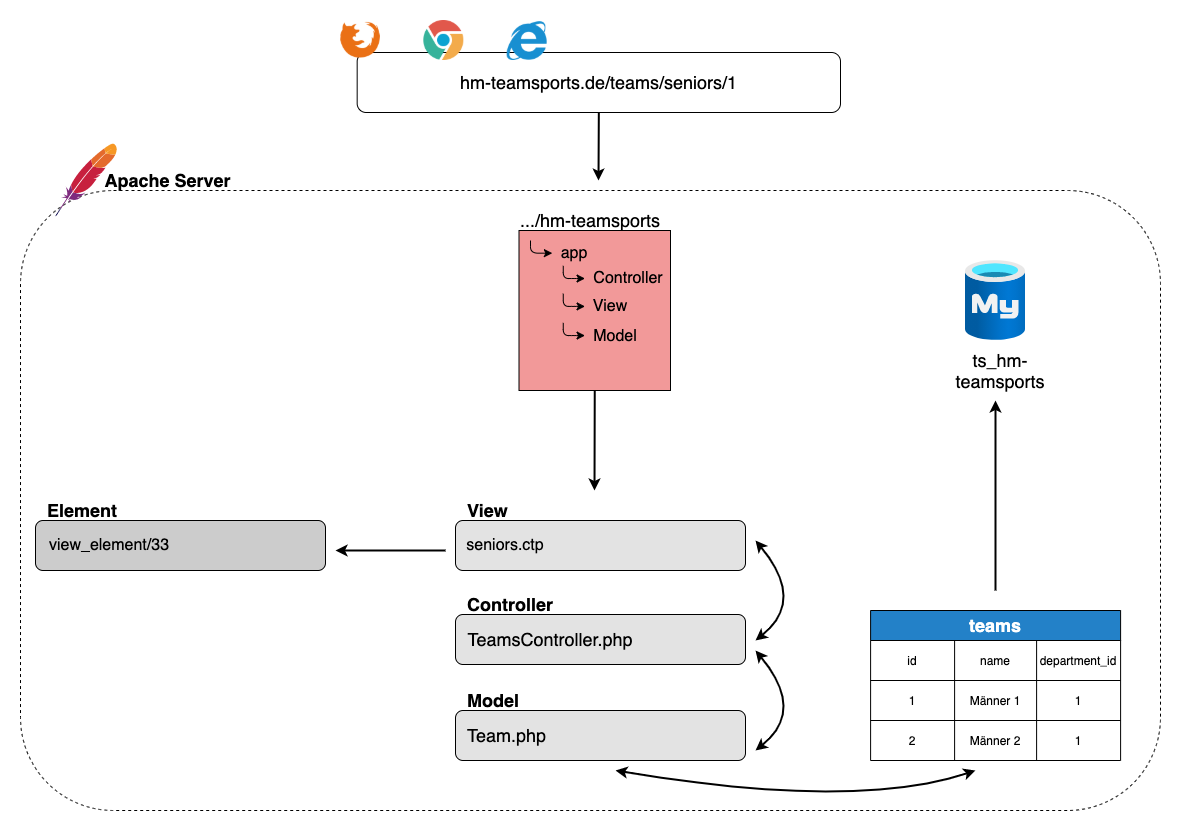
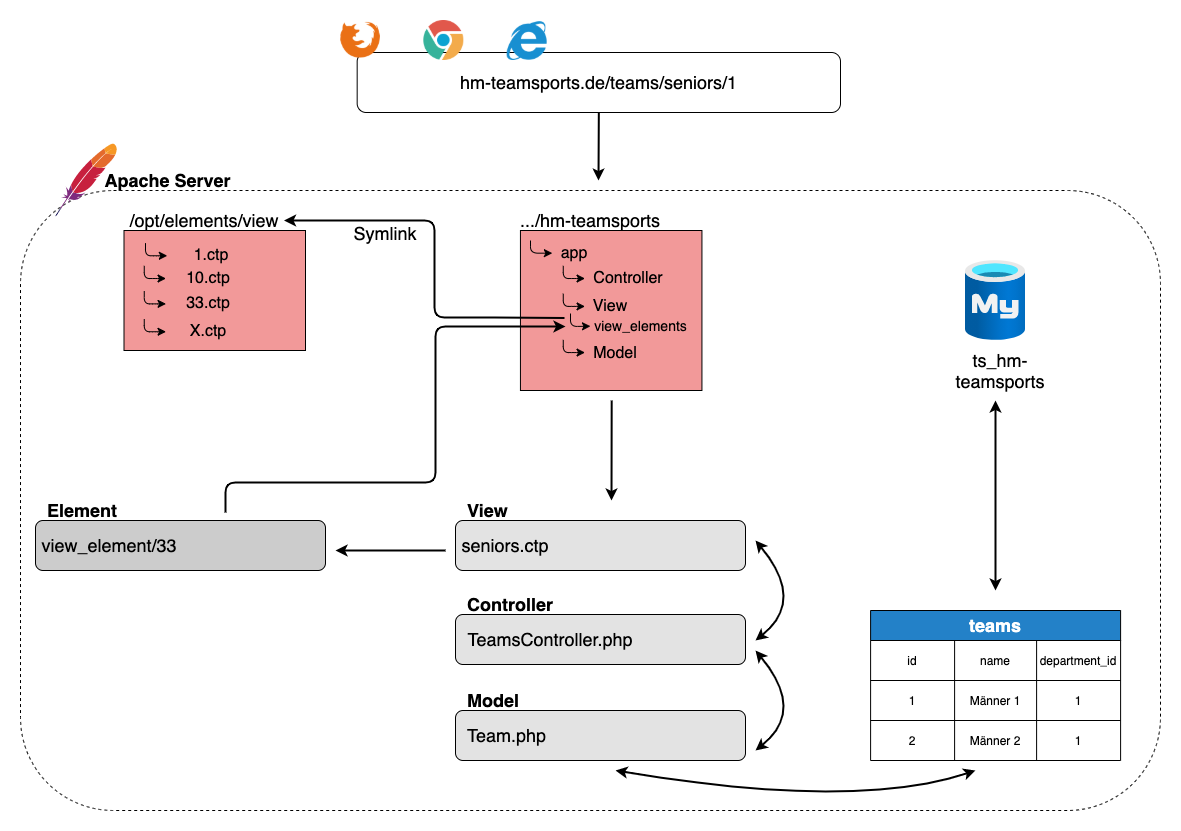
added content for ts2 architecture

diff --git a/source/08_analyse_istZustand_ts.md b/source/08_analyse_istZustand_ts.md
@@ -63,7 +63,7 @@ Abbildung 7: Model-View-Controller Architektur bei TeamSports2
 
 Alle TeamSports2 Instanzen laufen auf einem Apache Server unter Ubuntu als Betriebssystem. Sendet ein Nutzer eine Anfrage an die Seite hm-teamsports.de, so wird auf das zur Domain zugehörige Verzeichnis auf dem Server zugegriffen. Für den Aufbau der URLs nutzt CakePHP das „[...] Representational State Transfer Schema, kurz REST, das für den Aufbau verteilter Informationssysteme definiert wurde“ [@Ammelburger2008 46]. „Das URL-Schema ist dabei normalerweise so aufgebaut: _http://domain/controller/action/parameter1/parameter2_“ [@Ammelburger2008 45].
 
-Im Beispiel wird der TeamsController angesprochen, welcher die Action „Seniors“ enthält. Die Action ist in diesem Fall eine Funktion, welche im TeamsController implementiert ist.
+Im Beispiel wird der TeamsController angesprochen, welcher die Action „Seniors“ enthält.
 
 ```
 function seniors($departmentId = null)
@@ -76,8 +76,16 @@ function seniors($departmentId = null)
 	}
 ```
 
-Der übergebene Parameter eins in der URL steht für die departmentId, welche der Action übergeben werden muss. Als Department wird in TeamSports2 eine Abteilung des Vereins bezeichnet. Dadurch, dass die View seniors.ctp genau so wie die Action im TeamsController benannt ist, kann die View diese zuordnen. Dass die View seniors.ctp auf den TeamsController zugreifen muss, ist durch die Verzeichnisstruktur im Projekt festgelegt. Alle Views die im View-Ordner wiederum im Teams-Ordner liegen, wissen dass sie mit dem TeamsController verbunden sind. In diesem Fall enthält die seniors View ein Element mit der Nummer 33. Prinzipiell kann in der View auch PHP und HTML Code stehen. An dieser Stelle wurde ein Element verwendet, dass der Nutzer auch selbständig über den Administrationsbereich abändern kann. 
-Der TeamsController steht, ebenfalls durch die Namenskonvention, in Beziehung mit dem Team Model. CakePHP erkannt auch an dieser Stelle, dass in der Datenbank eine Tabelle namens teams besteht und verküpft das Model mit der Tabelle. Im Model werden dann unter anderem die relationalen Beziehungen der jeweiligen Tabelle definiert.
+Der übergebene Parameter eins in der URL steht für die departmentId, welche der Action übergeben werden muss. Als Department wird in TeamSports2 eine Abteilung des Vereins bezeichnet. Dadurch, dass die View seniors.ctp  wie die Action im TeamsController benannt ist, kann die View diese zuordnen. Dass die View seniors.ctp auf den TeamsController zugreifen muss, ist durch die Verzeichnisstruktur im Projekt festgelegt. Alle Views die im View-Ordner und dort wiederum im Teams-Ordner liegen, wissen dass sie mit dem TeamsController verbunden sind. In diesem Fall enthält die seniors View ein Element mit der Nummer 33. Prinzipiell kann in der View auch PHP und HTML Code stehen. An dieser Stelle wurde ein Element verwendet, dass der Nutzer auch selbständig über den Administrationsbereich abändern kann. Grundsätzlich enthält jede Instanz Elemente, die zu Darstellungen in den Views dienen. Damit diese nicht bei jeder Instanz einzeln abgelegt werden müssen, enthält jede Instanz im View Ordner den Ordner view_elements. Dieser ist ein Symlink zum Pfad */opt/elements/view* auf demselben Server. Unter diesem Pfad findet sich dann auch das passende Element. In der View seniors.ctp wird das Element 33 mit folgendem Code aufgerufen.
+
+```
+<?php
+echo $this->element('view_elements/33');
+?>
+```
+
+CakePHP erkennt mithilfe von *$this->element*, dass auf den View Ordner, worin der Elements Ordner liegt zugegriffen werden muss. Die gleiche Ordnerstruktur ist im Controller Ordner auch auf dem Server vorzufinden mit der Ergänzung des view_elements Ordners. Somit wird im Ordner View der Unterordner Elements gesucht. In letzerem ist dann der view_elements Symlink enthalten welcher das Element 33 enthält.
+Der TeamsController steht, ebenfalls durch die Namenskonvention, in Beziehung mit dem Team Model. CakePHP erkennt auch an dieser Stelle, dass in der Datenbank eine Tabelle namens teams besteht und verküpft das Model mit der Tabelle. Im Model werden dann unter anderem die relationalen Beziehungen der jeweiligen Tabelle definiert.
 Beispielsweise drückt $belongsTo aus, dass zwischen der teams sowie age_brackets und departments Tabelle eine n:1 Beziehung besteht.
 
 ```
@@ -98,6 +106,13 @@ Weitere relationale Beziehungen können wie folgt dargestellt werden.
 - m:n mit hasAndBelongsToMany
 
 [@Ammelburger2008 73].
+
+Durch den Parameter in der URL können alle Seniorenteams der Abteilung mit department_id = 1, in diesem Fall die Fußballabteilung, aufgerufen werden. Die unter *hm-teamsports.de/teams/seniors/1* aufgerufene Seite wird dann wie folgt angezeigt.
+
+![](source/figures/SeniorsView.png)
+Abbildung 8: Seniors.ctp View bei TeamSports2
+
+
 
 --> Erkennung DepartmentID in Tabelle
 --> Namenskonventionen kurz erklären
